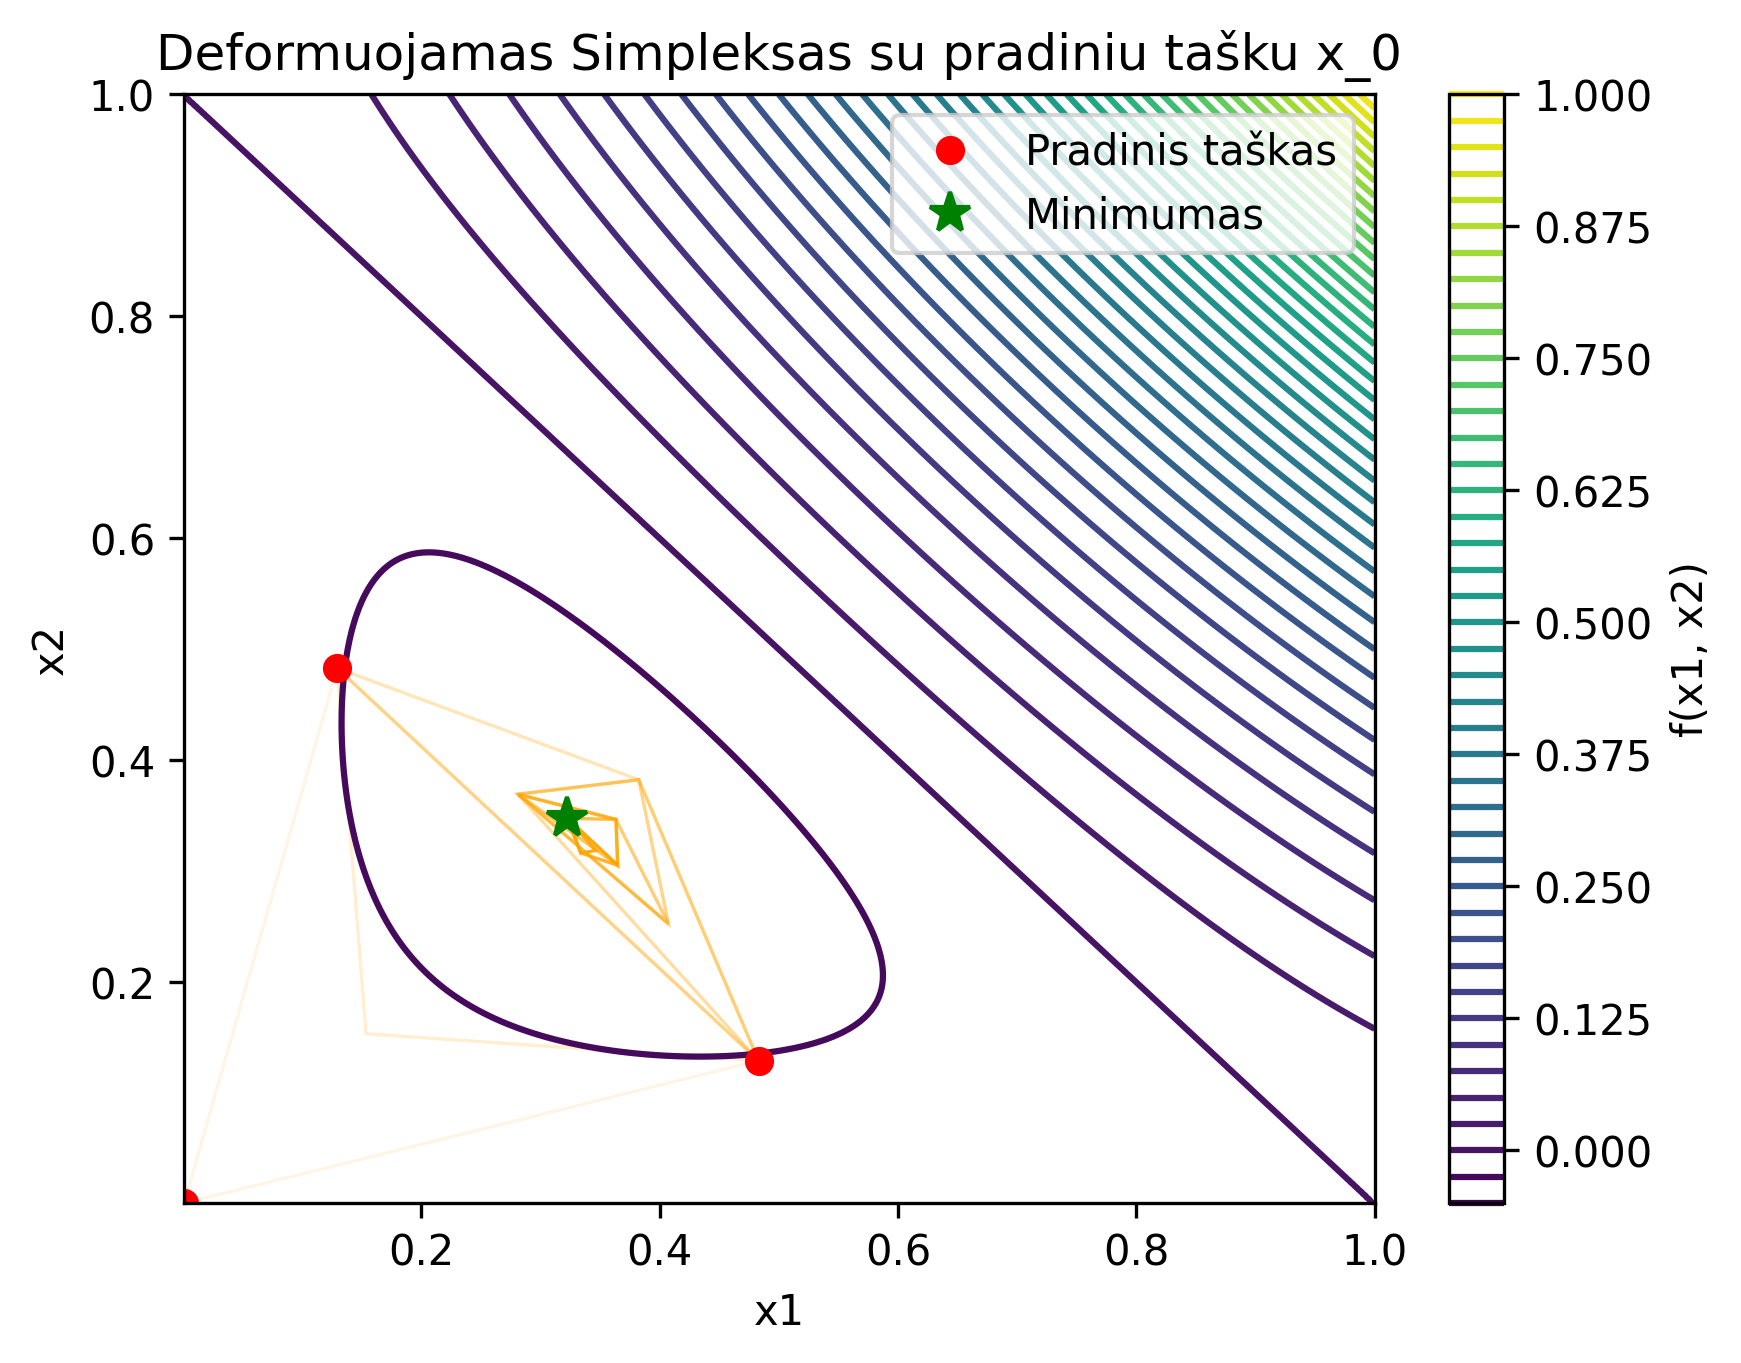
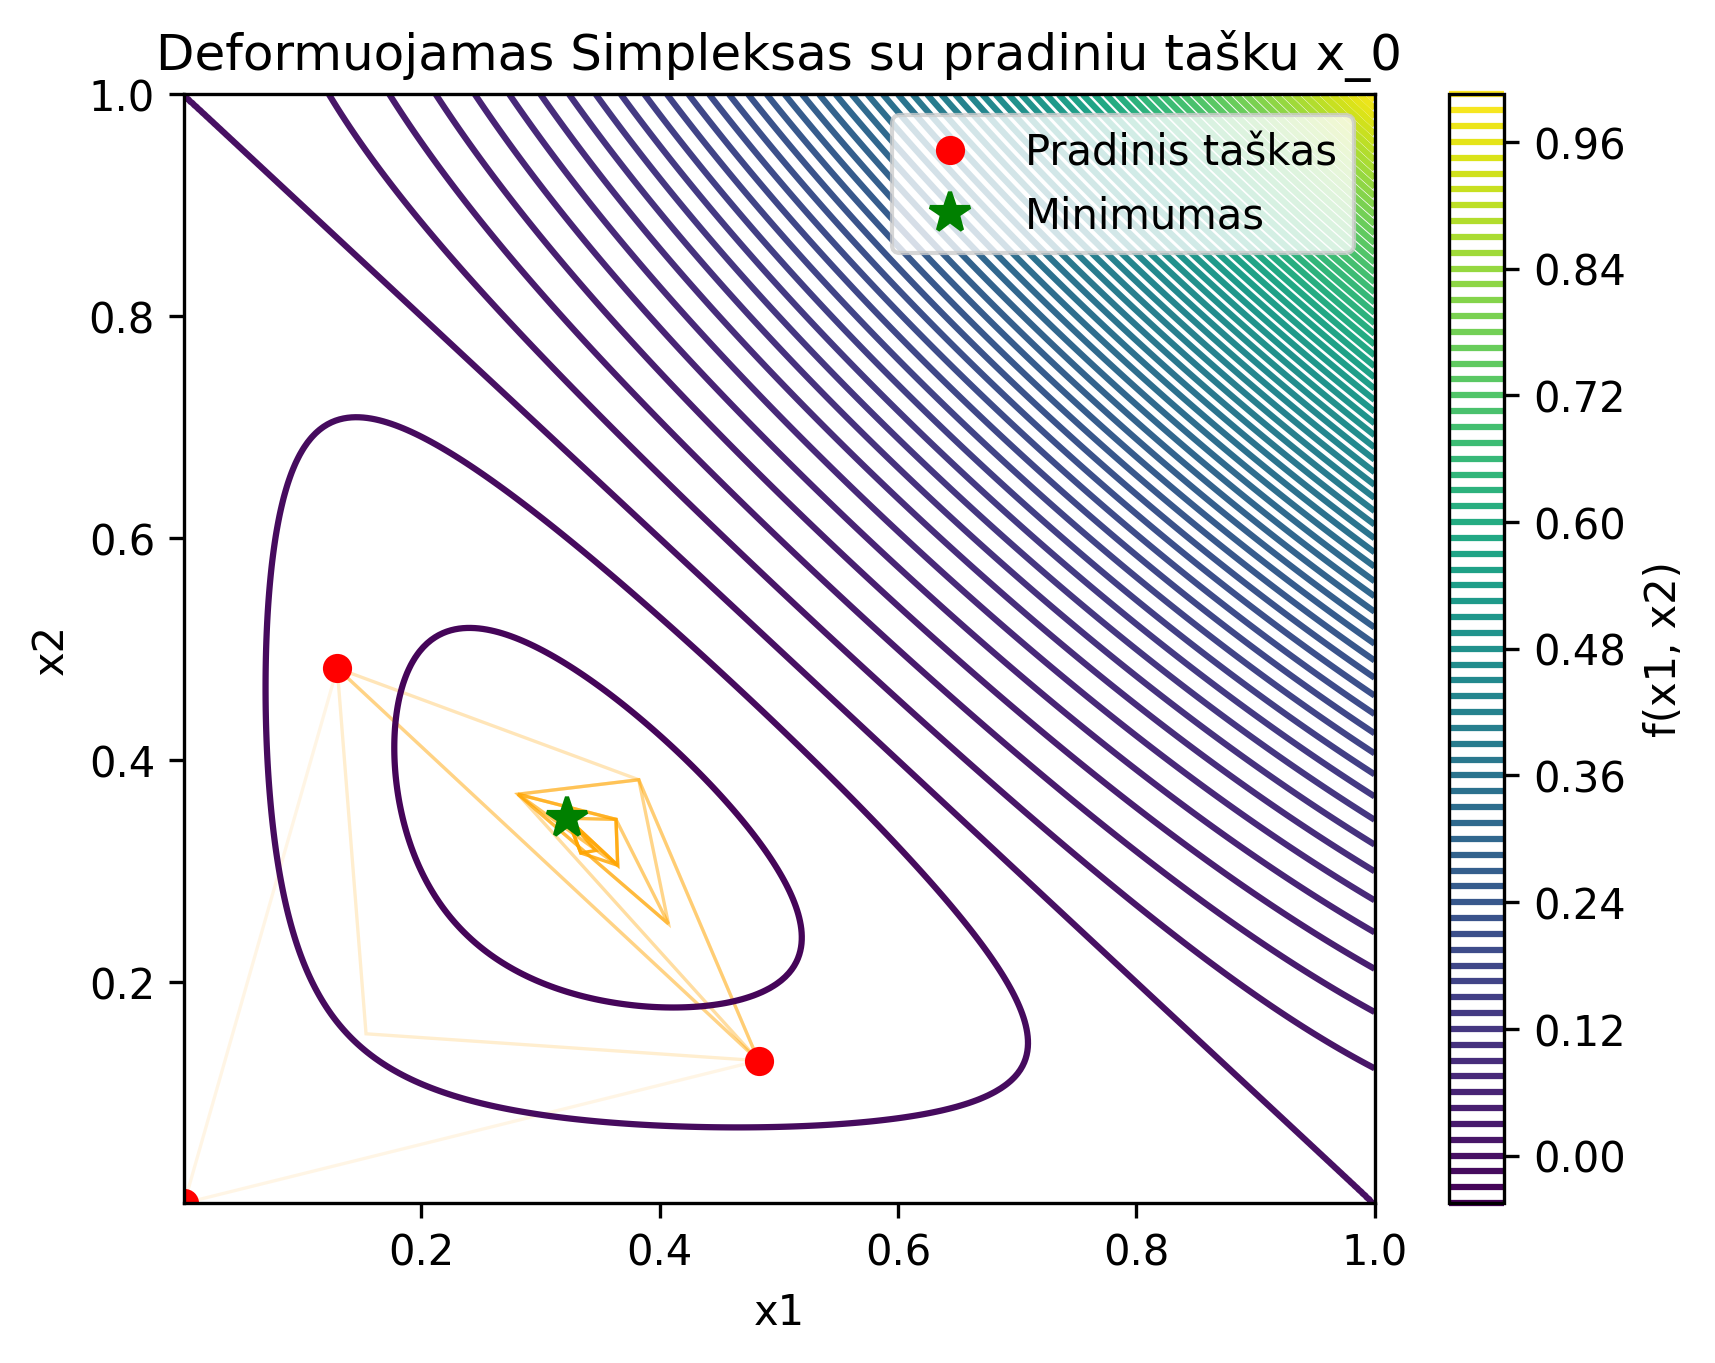
Change step size and increase amount of points for plane graph

diff --git a/Project_2/main.py b/Project_2/main.py
@@ -19,13 +19,13 @@ import pandas as pd
 # -f(x_1, x_2) = - (x_1 * x_2 * (1 - x_1 - x_2))
 
 def neg_func(x_1, x_2):
-   return  -(x_1 * x_2 * (1 - x_1 - x_2))
+   return  x_1 * x_2 * (x_1 + x_2 - 1)
 
 def partial_deriv_x_1(x_1, x_2):
-   return  -x_2 * (1 - 2 * x_1 - x_2)
+   return  x_2 * (2 * x_1 + x_2 - 1)
 
 def partial_deriv_x_2(x_1, x_2):
-   return  -x_1 * (1 - x_1 - 2 * x_2)
+   return  x_1 * (x_1 + 2 * x_2 - 1)
 
 def grad_neg_func(x_1, x_2):
    return np.array((partial_deriv_x_1(x_1, x_2), partial_deriv_x_2(x_1, x_2)))
@@ -64,7 +64,7 @@ def make_simplex_point(x, offset_1, offset_2):
 
 def gradient_descent(x, tolerance):
    x = np.array(x, dtype=float)
-   step = 0.01
+   step = 0.1
    
    cycle_count = 0
    func_comp_count = 0
@@ -181,7 +181,7 @@ def plot_result(x_res, test_points, method_name, x_name):
 
    fig, ax = plt.subplots()
 
-   contour = ax.contour(x_1, x_2, z, levels=50, cmap='viridis')
+   contour = ax.contour(x_1, x_2, z, levels=100, cmap='viridis')
    fig.colorbar(contour, ax=ax, label='f(x1, x2)')
 
    if method_name == 'Deformuojamas Simpleksas':
@@ -198,7 +198,6 @@ def plot_result(x_res, test_points, method_name, x_name):
       ax.plot(points[0, 0], points[0, 1], 'o', color='red', markersize=6, label='Pradinis taškas')
 
    ax.plot(x_res[0], x_res[1], '*', color='green', markersize=10, label='Minimumas') 
-
 
    ax.set_xlabel('x1')
    ax.set_ylabel('x2')
